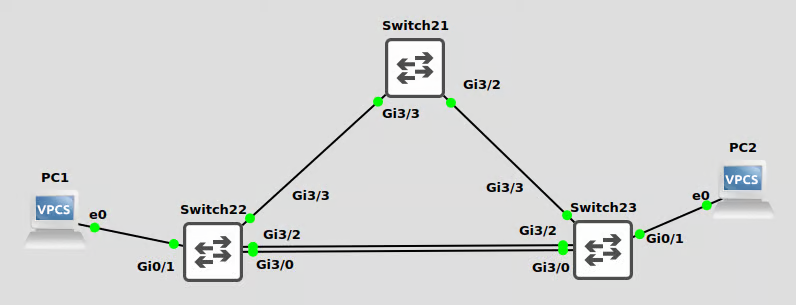
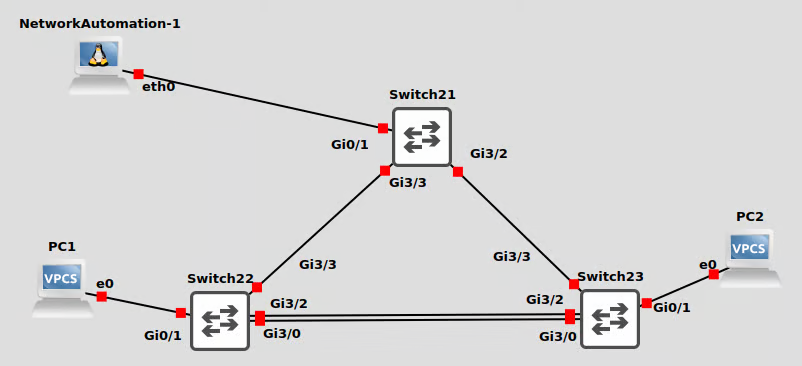
GITBOOK-2: No subject

diff --git a/lan-routing/build.md b/lan-routing/build.md
@@ -1,0 +1,25 @@
+# Build
+
+In GNS3, I opened the previous _Scripting_ project and saved it as _InterVLAN_.
+
+Although we have covered the basics of IPv4 routing in lectures, you will probably have to do some additional reading/research as we go along to understand commands and terminology.
+
+As you will be aware, IPv4 networks were originally based on _classful routing_. This was wasteful of address space and is one of the reasons why the world ran out of addresses. Suppose I break up 10.0.0.0/8 into class C subnets, I have an interface to 10.0.1.0/24 and 10.0.2.0/24 and I have a default route. If I try to reach the IP address 10.0.3.123 the packet will be dropped as destination unreachable. Because the router has a route to 10.0.0.0/8 but has no entry for 10.0.32.0/24, it sees the whole subnet as being unreachable.
+
+There is a subtle difference in the behaviour of routers which perform classless routing. In this case, where no path to 10.0.3.0/24 exists, the router will use the default route.
+
+It seems a subtle difference, but if your routers are configured to be in classful mode, you need to switch that off before you begin configuring. Most modern equipment defaults to classless.
+
+To get packets off a network at layer 3, we need a gateway address. Whenever a PC is trying to access a node which is not on the same subnet as it, it will forward the packet to the gateway. We can have more complex arrangements where PCs have routing tables and can make choices amongst multiple gateways. In practice this is sometimes done with servers but is a bit unusual.
+
+When designing enterprise networks with multiple routers, it is common practice to give each router a number (e.g. Router21, Router22) and to use this number as the last octet in the router’s IP address on each subnet it participates on.
+
+For example, if we have three VLANs and subnets, and we are using Switch1 as our router. Look at the table below, see if it makes sense.
+
+<table><thead><tr><th width="175">Router Device</th><th width="187">NetMan</th><th width="186">Hosts</th><th>Radio</th></tr></thead><tbody><tr><td>Switch21</td><td>192.168.10.21</td><td>192.168.2.21</td><td>192.168.3.21</td></tr></tbody></table>
+
+We know that whatever subnet we are on, we will be using .21 as the gateway. Handy that!
+
+On larger networks, we tend to number our routers like this (Router1, 2, 3, 4, 5 in the case of ATU Letterkenny). We will use a neat trick to share a gateway address amongst the routers for redundancy. For example, in ATU Letterkenny whichever router is active pretends it is .20 on the subnet it is on. If that router fails, another one pretends it is .20 and so on. The technology to do this is called _Virtual Router Redundancy Protocol_ (VRRP). Cisco has a proprietary implementation called _Hot Standby Router Protocol_ (HSRP).&#x20;
+
+We will look at this in a later session.

diff --git a/lan-routing/scenario.md b/lan-routing/scenario.md
@@ -1,0 +1,38 @@
+# Scenario
+
+We are building a network for an SME. We have three buildings with different purposes, and we need to come up with a design and configuration.
+
+| **Building** | **Purpose** | **Nodes** |
+| ------------ | ----------- | --------- |
+| 1            | Offices     | <48       |
+| 2            | Warehouse   | <24       |
+| 3            | Shop        | <24       |
+
+Our business has some standard requirements for separate LANs. We need to segment our network so that we can support a range of business VLANs.
+
+| **VLAN** | **Purpose**          | **IPv4**     | **Subnet** |
+| -------- | -------------------- | ------------ | ---------- |
+| 1        | ISP                  | 192.168.1.0  | /24        |
+| 2        | Hosts                | 192.168.2.0  | /24        |
+| 3        | Staff Radio          | 192.168.3.0  | /24        |
+| 4        | Power Infrastructure | 192.168.4.0  | /24        |
+| 5        | Clients              | 192.168.5.0  | /24        |
+| 6        | Servers              | 192.168.6.0  | /24        |
+| 7        | Telephony            | 192.168.7.0  | /24        |
+| 8        | HVAC Infrastructure  | 192.168.8.0  | /24        |
+| 9        | Storage              | 192.168.9.0  | /24        |
+| 10       | NetMan               | 192.168.10.0 | /24        |
+| 11       | Security Cameras     | 192.168.11.0 | /24        |
+| 12       | OOBM                 | 192.168.12.0 | /24        |
+| 13       | ClusterChat          | 192.168.13.0 | /24        |
+| 14       | Loopbacks            | 192.168.14.0 | /24        |
+| 15       | Routers              | 192.168.15.0 | /24        |
+| 16       | Links                | 192.168.16.0 | /24        |
+
+Our switches are on 192.168.10.21, 22, 23
+
+Our VPCs are 192.168.X.101 and 102, they may move VLANs, we will reserve 101 and 102 for them.
+
+<figure><img src="../.gitbook/assets/image.png" alt=""><figcaption></figcaption></figure>
+
+In previous exercises, we built a Layer 2 network and set up port security, loop avoidance, VLANs etc. But we currently have no way to route between VLANs.

diff --git a/lan-routing/README.md b/lan-routing/README.md
@@ -1,0 +1,9 @@
+# LAN Routing
+
+In a previous exercises, we examined a range of topics in switching.&#x20;
+
+In this set of exercises, we need to build on that knowledge and create a simple routed network using switches. This is where things get a bit complicated!
+
+In a modern LAN, we use L2/L3 switches for routing. We need to make sure whatever images we use are actually L2/L3. In the labs at ATU Letterkenny, we have both L2 and L2/L3 switches. Select carefully which you use.&#x20;
+
+Most courses in networking will spend a vast amount of time on dynamic routing, and we will look at that in a later section of the course. The reality is that most enterprise networks on a single campus site will use static routing with switches. In this sequence of exercises, that is the skill we intend to achieve.

diff --git a/scripting/network-automation-container.md b/scripting/network-automation-container.md
@@ -6,7 +6,7 @@ In GNS3, I select **End Devices** and then click **+New Template**
 
 Select to **Install an appliance from the GNS3 server** and click **Next**
 
-<figure><img src="../.gitbook/assets/image (1).png" alt=""><figcaption></figcaption></figure>
+<figure><img src="../.gitbook/assets/image (1) (1).png" alt=""><figcaption></figcaption></figure>
 
 Select **Guests** and then **Network Automation, Install,** and then **Install the appliance on your computer** and **Finish.**
 

diff --git a/scripting/README.md b/scripting/README.md
@@ -8,4 +8,4 @@ In GNS3, I opened the previous _CDPTest_ project and saved it as _Scripting_.&#x
 
 I started all the appliances.
 
-<figure><img src="../.gitbook/assets/image.png" alt=""><figcaption></figcaption></figure>
+<figure><img src="../.gitbook/assets/image (1).png" alt=""><figcaption></figcaption></figure>

diff --git a/SUMMARY.md b/SUMMARY.md
@@ -8,3 +8,6 @@
   * [Configure the switches](scripting/configure-the-switches.md)
   * [Test a script](scripting/test-a-script.md)
   * [Finally](scripting/finally.md)
+* [LAN Routing](lan-routing/README.md)
+  * [Scenario](lan-routing/scenario.md)
+  * [Build](lan-routing/build.md)
